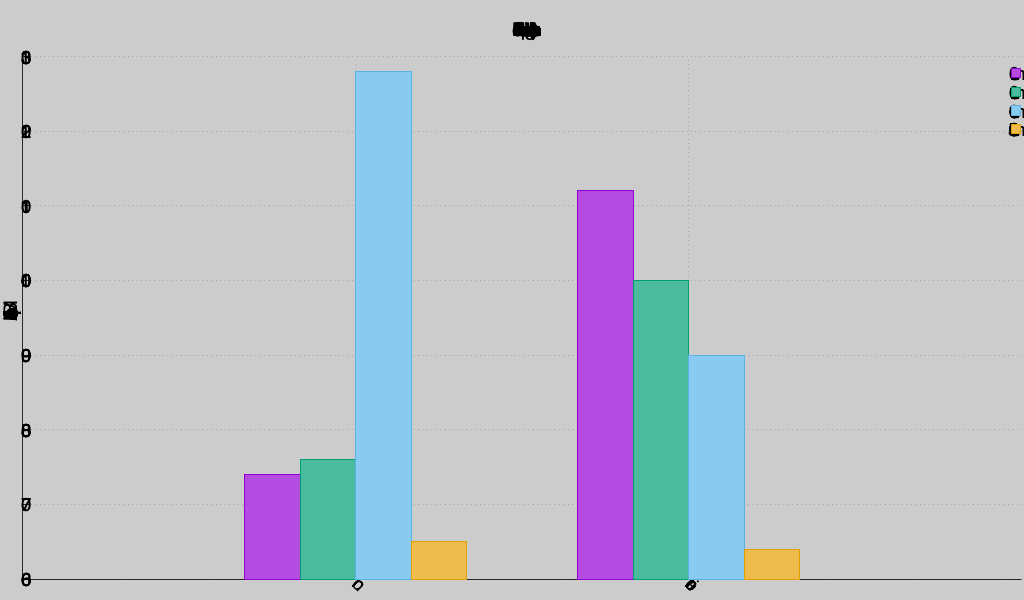
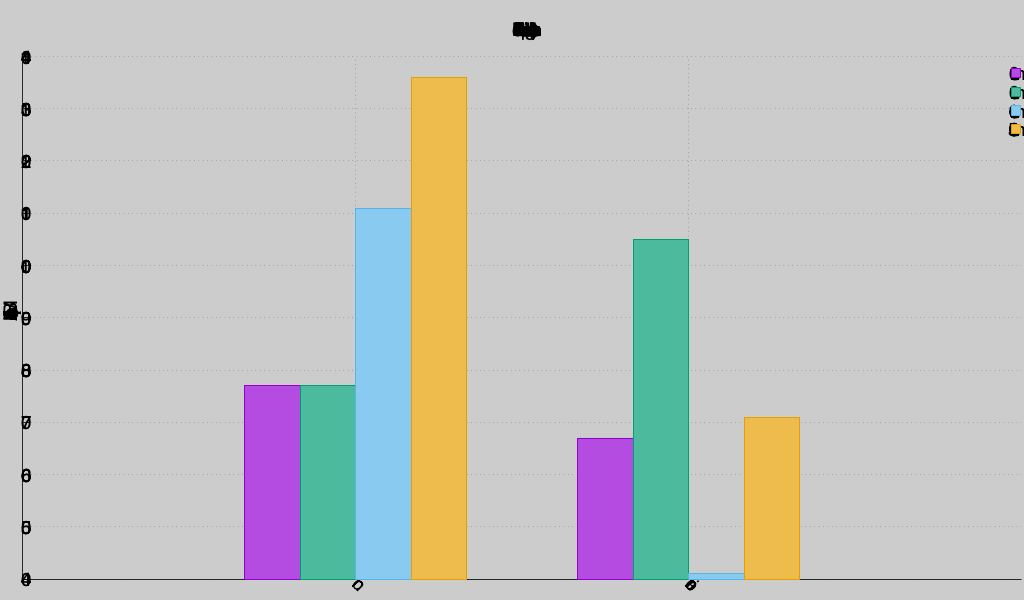
Benchmark chi and fiber with 10 header.

diff --git a/server.go b/server.go
@@ -237,6 +237,11 @@ func helloHandler(w http.ResponseWriter, r *http.Request) {
 	r.Header.Get("X-Header-3")
 	r.Header.Get("X-Header-4")
 	r.Header.Get("X-Header-5")
+	r.Header.Get("X-Header-6")
+	r.Header.Get("X-Header-7")
+	r.Header.Get("X-Header-8")
+	r.Header.Get("X-Header-9")
+	r.Header.Get("X-Header-10")
 	w.Write(message)
 }
 func startDefaultMux() {
@@ -539,6 +544,11 @@ func fiberHandler(ctx *fiber.Ctx) {
 	ctx.Get("X-Header-3")
 	ctx.Get("X-Header-4")
 	ctx.Get("X-Header-5")
+	ctx.Get("X-Header-6")
+	ctx.Get("X-Header-7")
+	ctx.Get("X-Header-8")
+	ctx.Get("X-Header-9")
+	ctx.Get("X-Header-10")
 	ctx.SendString(messageStr)
 }
 
